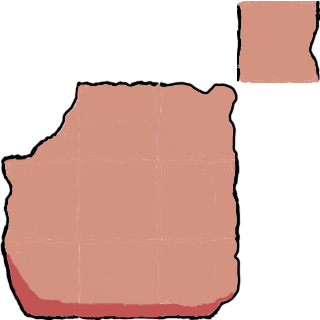
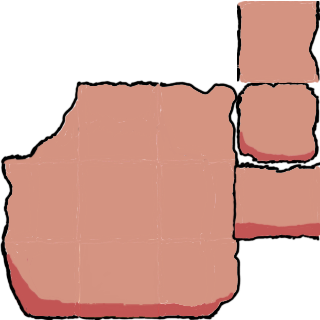
flush out rock textures

Changed region(s): [[0.7188, 0.25, 1.0, 0.7812]]

diff --git a/public/index.html b/public/index.html
@@ -157,6 +157,7 @@
                   //theres stone to the left and not above or below
                   if (RegionalMap[x + 1][y] && ['S', 'T', 'C'].includes(RegionalMap[x + 1][y])) {
                     //----theres stone to either side but not below or above
+                    ctx.drawImage(bigrocksheet, 240, 160, 80, 80, x*WUNIT, y*HUNIT, WUNIT, HUNIT);
                   } else {
                     //----theres stone to the left but not anywhere else
                     ctx.drawImage(smallrocksheet, 160, 240, 80, 80, x*WUNIT, y*HUNIT, WUNIT, HUNIT);
@@ -168,6 +169,7 @@
                     ctx.drawImage(smallrocksheet, 0, 240, 80, 80, x*WUNIT, y*HUNIT, WUNIT, HUNIT);
                   } else {
                     //----theres no stone around
+                    ctx.drawImage(bigrocksheet, 240, 80, 80, 80, x*WUNIT, y*HUNIT, WUNIT, HUNIT);
                   }
                 }
               }
